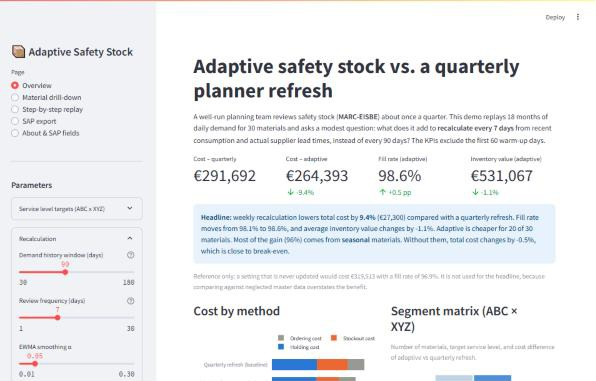
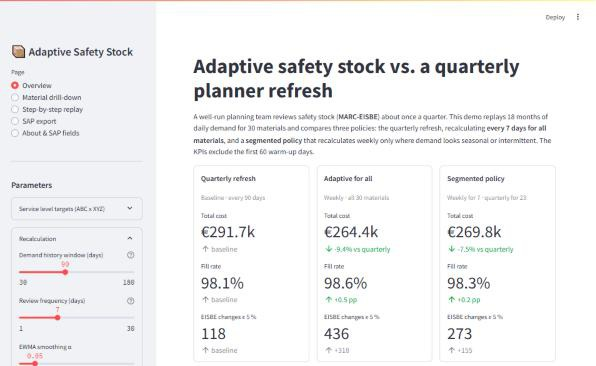
Overview: merge KPI row and segmented section into one three-policy comparison
- Three cards (quarterly, adaptive for all, segmented) with total cost, % vs quarterly,
  fill rate and EISBE changes; two-sentence headline; 'why segmented falls short' note
- Duplicated segmented section removed; classification table kept in an expander
- AppTest checks the single comparison and absence of the duplicate section

diff --git a/app/streamlit_app.py b/app/streamlit_app.py
@@ -180,39 +180,92 @@ def eisbe_changes(results, meta: pd.DataFrame, col: str | None, warmup: int,
     return total
 
 
-def segmented_section(cfg, sl_matrix, kpis, summ, ds):
-    st.subheader("Segmented policy: weekly only where it should pay off")
+def classification_expander(ds):
     meta = ds.meta
-    n_weekly = int(meta["weekly_review"].sum())
-    st.markdown(
-        "Instead of recalculating every material weekly, the **segmented policy** reviews weekly only "
-        f"the materials that look seasonal or intermittent in the **12 months of consumption before "
-        f"go-live**, and keeps the quarterly refresh for everything else. A material counts as "
-        f"*seasonal* if its seasonality strength is ≥ {methods.SEASONALITY_THRESHOLD:.1f}, and as "
-        f"*intermittent* if ADI > {methods.ADI_INTERMITTENT}. Both thresholds were fixed before "
-        f"looking at results. **{n_weekly} of {len(meta)}** materials qualify for weekly review.")
+    with st.expander("Demand classification per material (from the 12 months before go-live)"):
+        st.caption(
+            f"Weekly review in the segmented policy if seasonality strength ≥ "
+            f"{methods.SEASONALITY_THRESHOLD:.1f} or ADI > {methods.ADI_INTERMITTENT}. Both thresholds "
+            "were fixed before looking at results. The generator label is shown only to check the "
+            "classifier; the policy never uses it.")
+        cls = meta.merge(ds.mara[["MATNR", "MAKTX"]], on="MATNR")[
+            ["MATNR", "MAKTX", "seasonality_strength", "adi_12m", "cv2_12m", "sbc_class",
+             "segmented_method", "pattern"]]
+        cls = cls.rename(columns={"pattern": "generator label (check only)",
+                                  "segmented_method": "policy"})
+        cls["policy"] = cls["policy"].map(lambda m: "quarterly" if m == "quarterly" else f"weekly ({m})")
+        st.dataframe(cls.style.format({"seasonality_strength": "{:.2f}", "adi_12m": "{:.2f}",
+                                       "cv2_12m": "{:.2f}"}),
+                     hide_index=True, use_container_width=True)
 
-    q, a, s_ = (summ.loc[m] for m in ["quarterly", "adaptive", "segmented"])
+
+def page_overview(cfg, sl_matrix, cp):
+    ds = dataset_with_targets(sl_matrix)
+    meta = ds.meta
+    kpis = get_kpis(cfg, sl_matrix, cp)
+    h = costs.headline(kpis)
+    summ = costs.summary_by_method(kpis)
+    imp = costs.impact_by_material(kpis).join(meta.set_index("MATNR")[["ABC", "XYZ", "service_level"]])
     results = run_simulation(cfg, sl_matrix)
+    n_weekly = int(meta["weekly_review"].sum())
+
+    st.title("Adaptive safety stock vs. a quarterly planner refresh")
+    st.markdown(
+        "A well-run planning team reviews safety stock (**MARC-EISBE**) about once a quarter. "
+        "This demo replays 18 months of daily demand for 30 materials and compares three policies: "
+        f"the quarterly refresh, recalculating **every {cfg.review_every} days for all materials**, and a "
+        "**segmented policy** that recalculates weekly only where demand looks seasonal or "
+        f"intermittent. The KPIs exclude the first {cfg.warmup} warm-up days.")
+
+    # --- one comparison: three policies -------------------------------------
     changes = {"quarterly": eisbe_changes(results, meta, None, cfg.warmup),
                "adaptive": eisbe_changes(results, meta, "adaptive_method", cfg.warmup),
                "segmented": eisbe_changes(results, meta, "segmented_method", cfg.warmup)}
-    c1, c2, c3 = st.columns(3)
-    for col, key, row in [(c1, "quarterly", q), (c2, "adaptive", a), (c3, "segmented", s_)]:
-        with col:
-            st.markdown(f"**{LABEL[key]}**")
-            delta = None if key == "quarterly" else f"{row.total_cost / q.total_cost - 1:+.1%} vs quarterly"
-            st.metric("Total cost", eur(row.total_cost), delta, delta_color="inverse")
-            st.caption(f"Fill rate {row.fill_rate:.1%} · {changes[key]} EISBE changes ≥ 5 %")
+    title = {"quarterly": "Quarterly refresh", "adaptive": "Adaptive for all",
+             "segmented": "Segmented policy"}
+    scope = {"quarterly": "Baseline · every 90 days",
+             "adaptive": f"Weekly · all {len(meta)} materials",
+             "segmented": f"Weekly for {n_weekly} · quarterly for {len(meta) - n_weekly}"}
+    q = summ.loc["quarterly"]
+    for col, key in zip(st.columns(3), ["quarterly", "adaptive", "segmented"]):
+        row = summ.loc[key]
+        base = key == "quarterly"
+        with col, st.container(border=True):
+            st.markdown(f"**{title[key]}**")
+            st.caption(scope[key])
+            # the baseline gets a neutral "baseline" delta so the rows line up across cards
+            st.metric("Total cost", f"€{row.total_cost / 1000:,.1f}k",
+                      "baseline" if base else f"{row.total_cost / q.total_cost - 1:+.1%} vs quarterly",
+                      delta_color="off" if base else "inverse")
+            st.metric("Fill rate", f"{row.fill_rate:.1%}",
+                      "baseline" if base else f"{(row.fill_rate - q.fill_rate) * 100:+.1f} pp",
+                      delta_color="off" if base else "normal")
+            st.metric("EISBE changes ≥ 5 %", f"{changes[key]:,}",
+                      "baseline" if base else f"{changes[key] - changes['quarterly']:+,}",
+                      delta_color="off")
 
-    diff = s_.total_cost - a.total_cost
+    # --- headline: two sentences --------------------------------------------
+    by_pat_sav = imp.groupby("pattern")["savings"].sum().sort_values(ascending=False)
+    top_pat = by_pat_sav.index[0]
+    top_share = by_pat_sav.iloc[0] / h["savings"] if h["savings"] > 0 else np.nan
+    seg_pct = 1 - summ.loc["segmented", "total_cost"] / q.total_cost
+    churn = 1 - changes["segmented"] / max(changes["adaptive"], 1)
+    s1 = (f"Weekly recalculation for all materials {'lowers' if h['savings'] > 0 else 'raises'} total "
+          f"cost by **{abs(h['savings_pct']):.1%}** compared with a quarterly refresh")
+    s1 += (f", and {top_share:.0%} of that comes from **{top_pat.replace('_', ' ')}** materials."
+           if h["savings"] > 0 and top_share > 0.5 else ".")
+    s2 = (f"Reviewing weekly only the {n_weekly} materials that look seasonal or intermittent "
+          f"{'saves' if seg_pct > 0 else 'costs'} **{abs(seg_pct):.1%}** with "
+          f"**{churn:.0%} fewer EISBE changes** than weekly-for-all.")
+    st.info(f"**Headline:** {s1} {s2}")
+
+    # --- why the segmented policy does (not) win ----------------------------
+    diff = summ.loc["segmented", "total_cost"] - summ.loc["adaptive", "total_cost"]
     missed = meta[(meta["pattern"] == "seasonal") & ~meta["is_seasonal"]]
     false_pos = meta[~meta["pattern"].isin(["seasonal", "intermittent"]) & meta["weekly_review"]]
-    verdict = ("**beats** adaptive-for-all" if diff < 0 else "does **not** beat adaptive-for-all")
-    msg = (f"The segmented policy {verdict}: its total cost is {eur(abs(diff))} "
-           f"({abs(diff) / a.total_cost:.1%}) {'lower' if diff < 0 else 'higher'}. In exchange it "
-           f"makes {changes['adaptive'] - changes['segmented']} fewer EISBE changes "
-           f"({1 - changes['segmented'] / max(changes['adaptive'], 1):.0%} less master-data churn).")
+    msg = (f"The segmented policy {'beats' if diff < 0 else 'does not beat'} adaptive-for-all: its "
+           f"total cost is {eur(abs(diff))} ({abs(diff) / summ.loc['adaptive', 'total_cost']:.1%}) "
+           f"{'lower' if diff < 0 else 'higher'}.")
     if len(missed):
         msg += (f" Why: {len(missed)} of {int((meta['pattern'] == 'seasonal').sum())} seasonal "
                 "materials score below the seasonality threshold on one year of history, so they "
@@ -221,68 +274,10 @@ def segmented_section(cfg, sl_matrix, kpis, summ, ds):
         msg += f" {len(false_pos)} non-seasonal material(s) were wrongly put on weekly review."
     (st.success if diff < 0 else st.warning)(msg)
 
-    with st.expander("Demand classification per material (from the 12 months before go-live)"):
-        cls = meta.merge(ds.mara[["MATNR", "MAKTX"]], on="MATNR")[
-            ["MATNR", "MAKTX", "seasonality_strength", "adi_12m", "cv2_12m", "sbc_class",
-             "weekly_review", "segmented_method", "pattern"]]
-        cls = cls.rename(columns={"pattern": "generator label (check only)",
-                                  "segmented_method": "policy"})
-        cls["policy"] = cls["policy"].map(lambda m: "quarterly" if m == "quarterly" else f"weekly ({m})")
-        st.dataframe(cls.style.format({"seasonality_strength": "{:.2f}", "adi_12m": "{:.2f}",
-                                       "cv2_12m": "{:.2f}"}),
-                     hide_index=True, use_container_width=True)
-        st.caption("The generator label is shown only to check the classifier. The policy never uses it.")
-
-
-def page_overview(cfg, sl_matrix, cp):
-    ds = dataset_with_targets(sl_matrix)
-    kpis = get_kpis(cfg, sl_matrix, cp)
-    h = costs.headline(kpis)
-    summ = costs.summary_by_method(kpis)
-    imp = costs.impact_by_material(kpis).join(ds.meta.set_index("MATNR")[["ABC", "XYZ", "service_level"]])
-
-    st.title("Adaptive safety stock vs. a quarterly planner refresh")
-    st.markdown(
-        "A well-run planning team reviews safety stock (**MARC-EISBE**) about once a quarter. "
-        "This demo replays 18 months of daily demand for 30 materials and asks a modest question: "
-        "what does it add to **recalculate every "
-        f"{cfg.review_every} days** from recent consumption and actual supplier lead times, instead "
-        f"of every {cfg.baseline_refresh} days? The KPIs exclude the first {cfg.warmup} warm-up days.")
-
-    c1, c2, c3, c4 = st.columns(4)
-    c1.metric("Cost – quarterly", eur(h["baseline_cost"]))
-    c2.metric("Cost – adaptive", eur(h["adaptive_cost"]),
-              f"{-h['savings_pct']:+.1%}", delta_color="inverse")
-    c3.metric("Fill rate (adaptive)", f"{h['adaptive_fill']:.1%}",
-              f"{(h['adaptive_fill'] - h['baseline_fill']) * 100:+.1f} pp")
-    c4.metric("Inventory value (adaptive)", eur(h["adaptive_inv"]),
-              f"{h['adaptive_inv'] / h['baseline_inv'] - 1:+.1%}", delta_color="inverse")
-
-    # What drives the result: savings by demand pattern (computed, not hard-coded)
-    by_pat_sav = imp.groupby("pattern")["savings"].sum().sort_values(ascending=False)
-    top_pat = by_pat_sav.index[0]
-    top_share = by_pat_sav.iloc[0] / h["savings"] if h["savings"] > 0 else np.nan
-    rest = h["savings"] - by_pat_sav.iloc[0]
-    rest_base = imp.loc[imp["pattern"] != top_pat, "baseline"].sum()
-    n_better = int((imp["savings"] > 0).sum())
-
-    verdict = "lowers" if h["savings"] > 0 else "raises"
-    text = (
-        f"**Headline:** weekly recalculation {verdict} total cost by **{abs(h['savings_pct']):.1%}** "
-        f"({eur(abs(h['savings']))}) compared with a quarterly refresh. Fill rate moves from "
-        f"{h['baseline_fill']:.1%} to {h['adaptive_fill']:.1%}, and average inventory value changes by "
-        f"{h['adaptive_inv'] / h['baseline_inv'] - 1:+.1%}. Adaptive is cheaper for {n_better} of "
-        f"{len(imp)} materials.")
-    if h["savings"] > 0 and top_share > 0.5:
-        text += (f" Most of the gain ({top_share:.0%}) comes from **{top_pat.replace('_', ' ')}** "
-                 f"materials. Without them, total cost changes by {-rest / rest_base:+.1%}, "
-                 "which is close to break-even.")
-    st.info(text)
     st.caption(f"Reference only: a setting that is never updated would cost {eur(h['static_cost'])} "
                f"with a fill rate of {h['static_fill']:.1%}. It is not used for the headline, because "
                "comparing against neglected master data overstates the benefit.")
-
-    segmented_section(cfg, sl_matrix, kpis, summ, ds)
+    classification_expander(ds)
 
     left, right = st.columns([1.15, 1])
     with left:

diff --git a/tests/test_app.py b/tests/test_app.py
@@ -22,8 +22,13 @@ def _goto(at, page):
 def test_overview_renders_headline(at):
     assert not at.exception
     assert any("Headline" in i.value for i in at.info)
-    assert len(at.metric) >= 7
-    assert any("Segmented policy" in h.value for h in at.subheader)
+    # one comparison: 3 policies x (total cost, fill rate, EISBE changes)
+    labels = [m.label for m in at.metric]
+    assert labels[:9].count("Total cost") == 3 and labels[:9].count("Fill rate") == 3
+    assert labels[:9].count("EISBE changes ≥ 5 %") == 3
+    assert any("Segmented policy" in m.value for m in at.markdown)
+    assert len(at.info) == 1 and len(at.warning) + len(at.success) == 1
+    assert not any("Segmented policy" in h.value for h in at.subheader)   # no duplicate section
 
 
 def test_drilldown(at):

diff --git a/README.md b/README.md
@@ -143,7 +143,7 @@ history or a planner's judgement, rather than one year and a fixed cut-off.
 
 | Page | What it shows |
 |---|---|
-| **Overview** | Headline result vs. the quarterly refresh, the segmented-policy comparison with its per-material demand classification, cost by method, the ABC × XYZ segment matrix with savings per cell, results by demand pattern, top materials by impact (including where adaptive does worse) |
+| **Overview** | One side-by-side comparison of the three policies (quarterly refresh, adaptive for all, segmented): total cost, % vs. quarterly, fill rate and number of EISBE changes. Below it, a two-sentence headline, why the segmented policy falls short, and the per-material demand classification in an expander. Further down: cost by method, the ABC × XYZ segment matrix with savings per cell, results by demand pattern, top materials by impact (including where adaptive does worse) |
 | **Material drill-down** | Demand, on-hand inventory per method (quarterly vs. adaptive by default), safety stock over time, and KPIs for one material |
 | **Step-by-step replay** | Day-by-day playback with ▶ Play / ⏸ Pause / ⏭ Next day / ⏮ Reset and a speed control (default slow: 1 day per second). Shows receipts, issues, POs placed and EISBE recalculations as they happen |
 | **SAP export** | Proposed EISBE/MINBE changes with reason and status. Planners can approve or reject the large changes in the table, then download the proposal list and the MM17 upload file |
